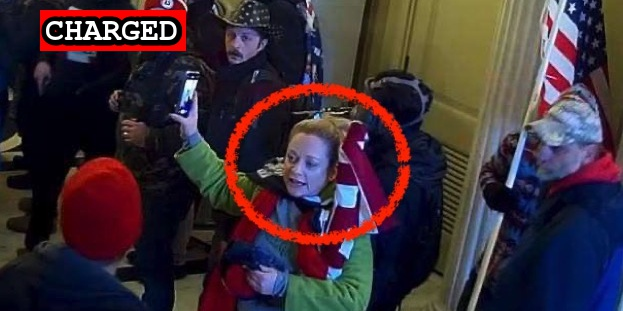
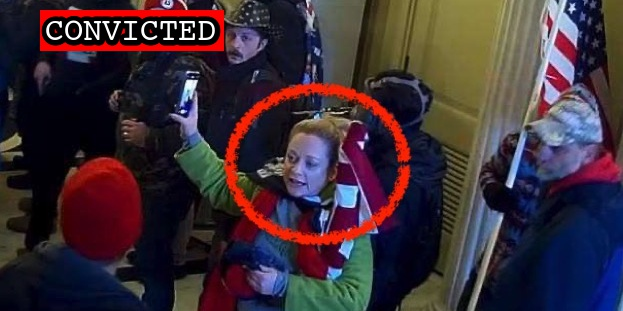
Latest plea

Changed region(s): [[0.061, 0.0289, 0.366, 0.1736]]

diff --git a/docs/_suspects/dawn-bancroft.md b/docs/_suspects/dawn-bancroft.md
@@ -13,7 +13,7 @@ sentenced:
 dismissed:
 deceased:
 plea_hearing: 2021-09-28
-sentencing: 2021-01-25
+sentencing: 2022-01-25
 age: 59
 occupation: Business Owner (CrossFit)
 affiliations:
@@ -34,12 +34,13 @@ published: true
 caseNumber: 1:21-cr-271
 videos:
 charges:
-- code: 18 USC § 5104(e)(2)(G)
-  title: Parading, demonstrating or picketing in a Capitol building
-  url: https://www.law.cornell.edu/uscode/text/40/5104
-  felony: false
+  - code: 18 USC § 5104(e)(2)(G)
+    title: Parading, demonstrating or picketing in a Capitol building
+    url: https://www.law.cornell.edu/uscode/text/40/5104
+    felony: false
 sentence:
 ---
+
 - [News Report](https://www.mcall.com/news/police/mc-nws-pennsylvania-women-charged-in-capitol-siege-20210130-zsgjdrfdibgpboyuatcphtlaxq-story.html)
 - [Complaint](https://www.justice.gov/opa/page/file/1362581/download)
 - [Statement of Facts](https://www.justice.gov/usao-dc/case-multi-defendant/file/1438246/download)

diff --git a/docs/_suspects/eduardo-alvear-gonzalez.md b/docs/_suspects/eduardo-alvear-gonzalez.md
@@ -13,7 +13,7 @@ sentenced:
 dismissed:
 deceased:
 plea_hearing: 2021-09-30
-sentencing: 2021-01-05
+sentencing: 2022-01-05
 age: 32
 occupation:
 affiliations:
@@ -34,12 +34,13 @@ published: true
 caseNumber: 1:21-cr-115
 videos:
 charges:
-- code: 18 USC § 5104(e)(2)(G)
-  title: Parading, demonstrating or picketing in a Capitol building
-  url: https://www.law.cornell.edu/uscode/text/40/5104
-  felony: false
+  - code: 18 USC § 5104(e)(2)(G)
+    title: Parading, demonstrating or picketing in a Capitol building
+    url: https://www.law.cornell.edu/uscode/text/40/5104
+    felony: false
 sentence:
 ---
+
 - [News Report](https://www.pilotonline.com/news/crime/vp-nw-gonzalez-capitol-riot-20210211-lai4xcqvqnbdrb3fvsq6mffrdy-story.html)
 - [Statement of Facts](https://www.justice.gov/usao-dc/case-multi-defendant/file/1438326/download)
 - [Self Incrimination (VIDEO)](https://twitter.com/RichieMcGinniss/status/1346959229022826498)

diff --git a/docs/_suspects/traci-sunstrum.md b/docs/_suspects/traci-sunstrum.md
@@ -4,16 +4,16 @@ lastName: Sunstrum
 hashtag: TraciSunstrum
 aka:
 residence: New York
-status: Charged
+status: Convicted
 date: 2021-04-13
 charged: 2021-04-13
 indicted:
-convicted:
+convicted: 2021-11-17
 sentenced:
 dismissed:
 deceased:
-plea_hearing:
-sentencing:
+plea_hearing: 2021-11-17
+sentencing: 2022-02-10
 age: 44
 occupation:
 affiliations:
@@ -34,7 +34,12 @@ published: true
 caseNumber:
 videos:
 charges:
+  - code: 18 USC § 5104(e)(2)(G)
+    title: Parading, demonstrating or picketing in a Capitol building
+    url: https://www.law.cornell.edu/uscode/text/40/5104
+    felony: false
 sentence:
 ---
+
 - [News Report](https://news.wbfo.org/post/four-more-local-suspects-charged-us-capitol-riot)
 - [Statement of Facts](https://www.justice.gov/usao-dc/case-multi-defendant/file/1395326/download)
